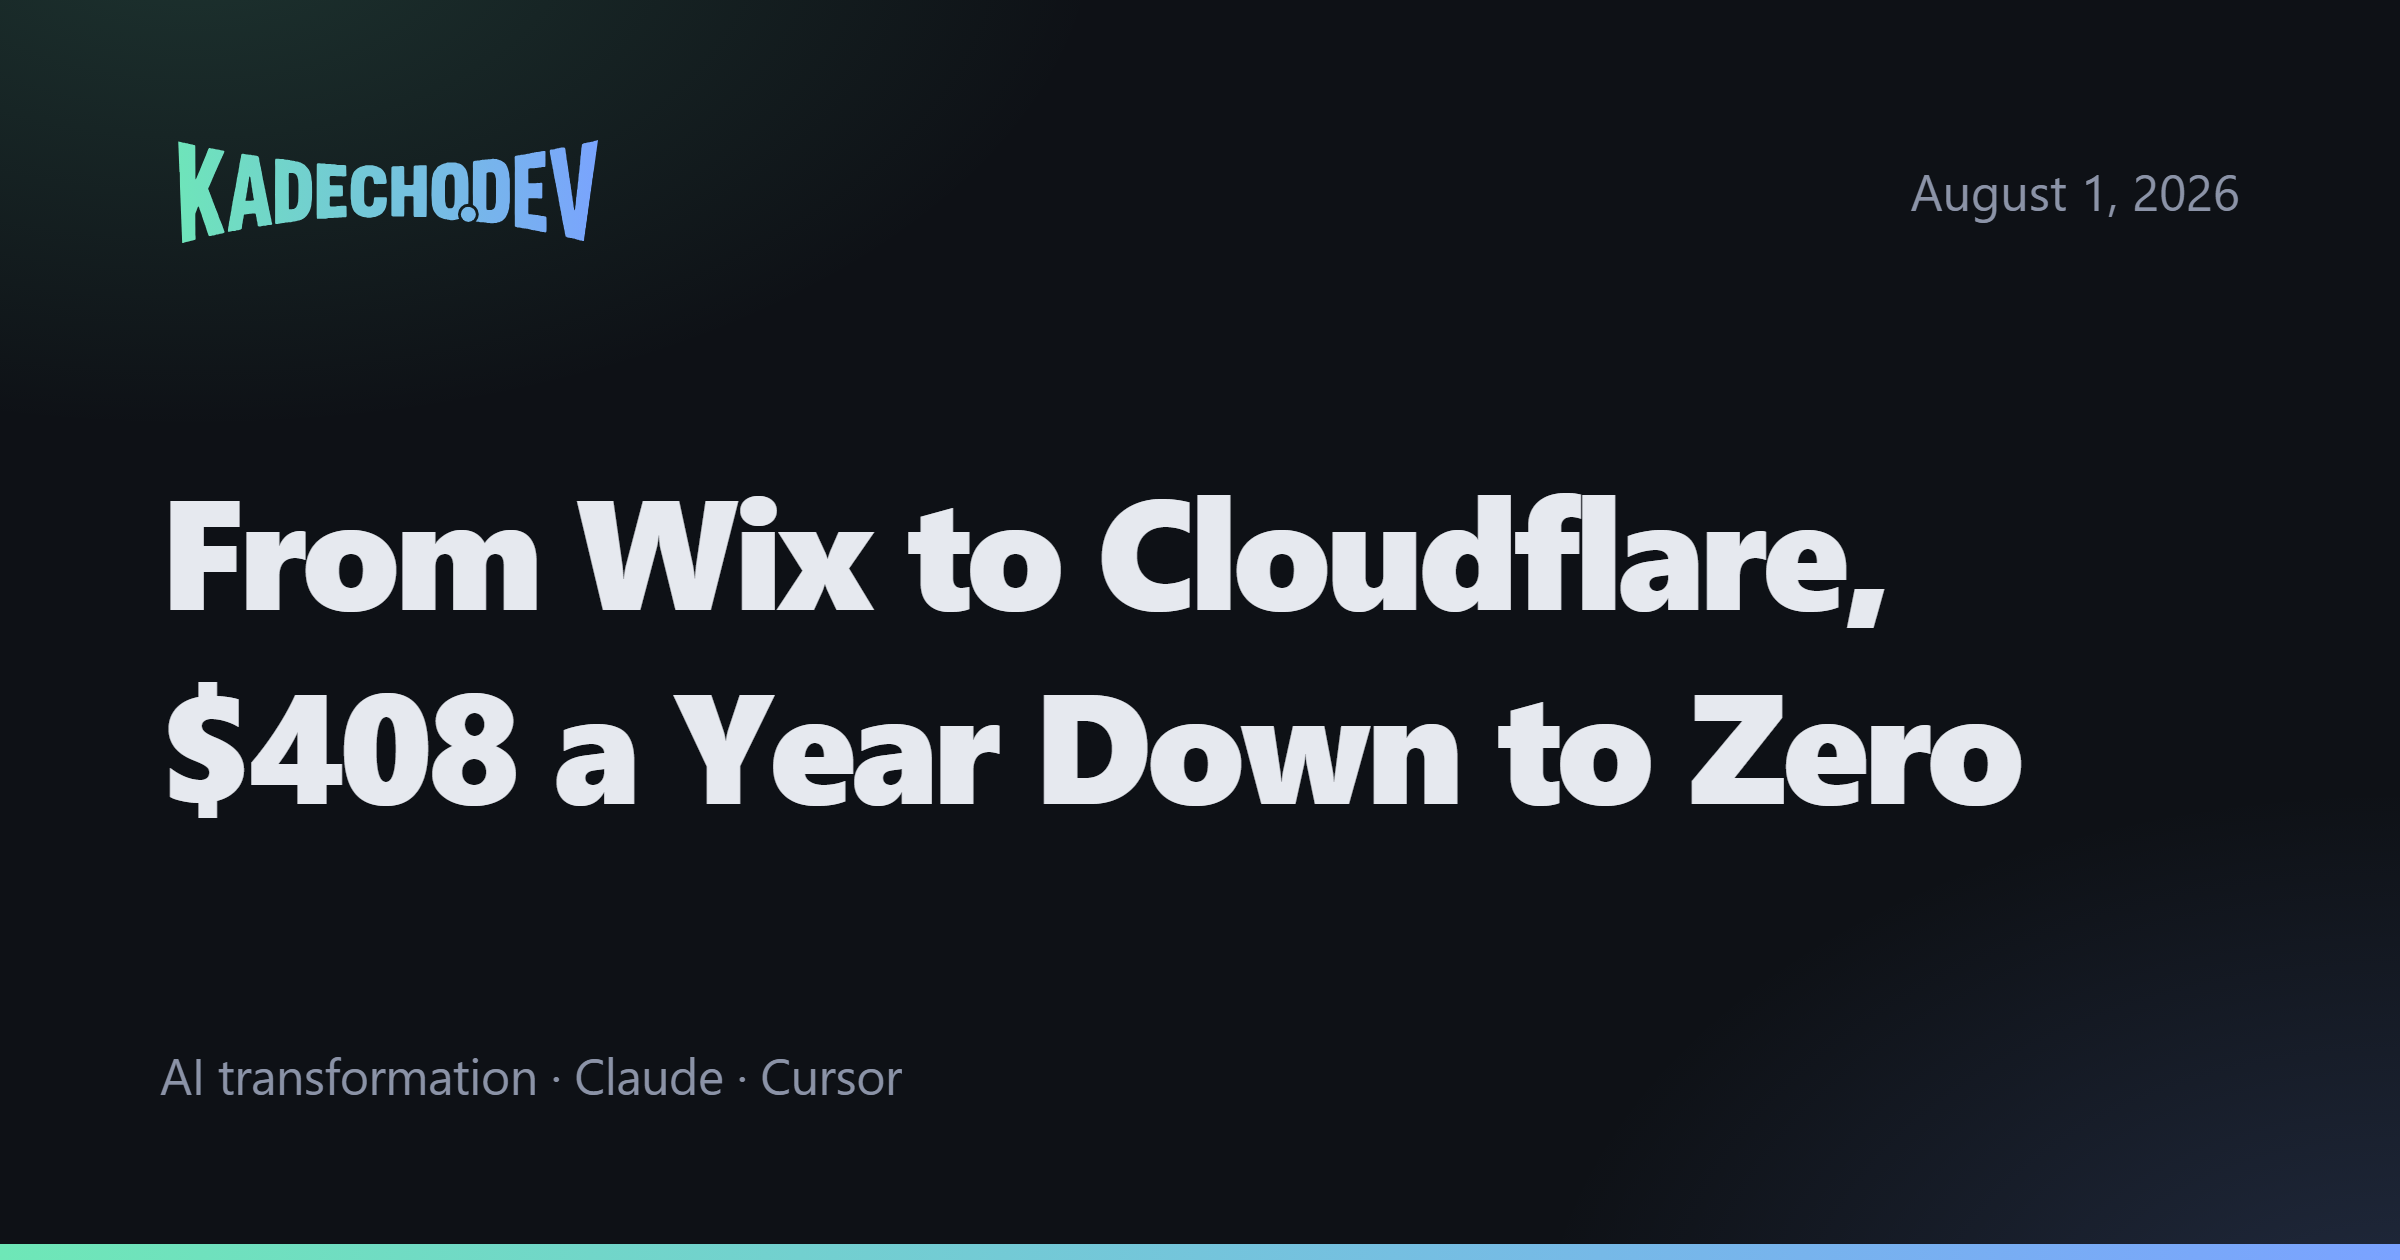
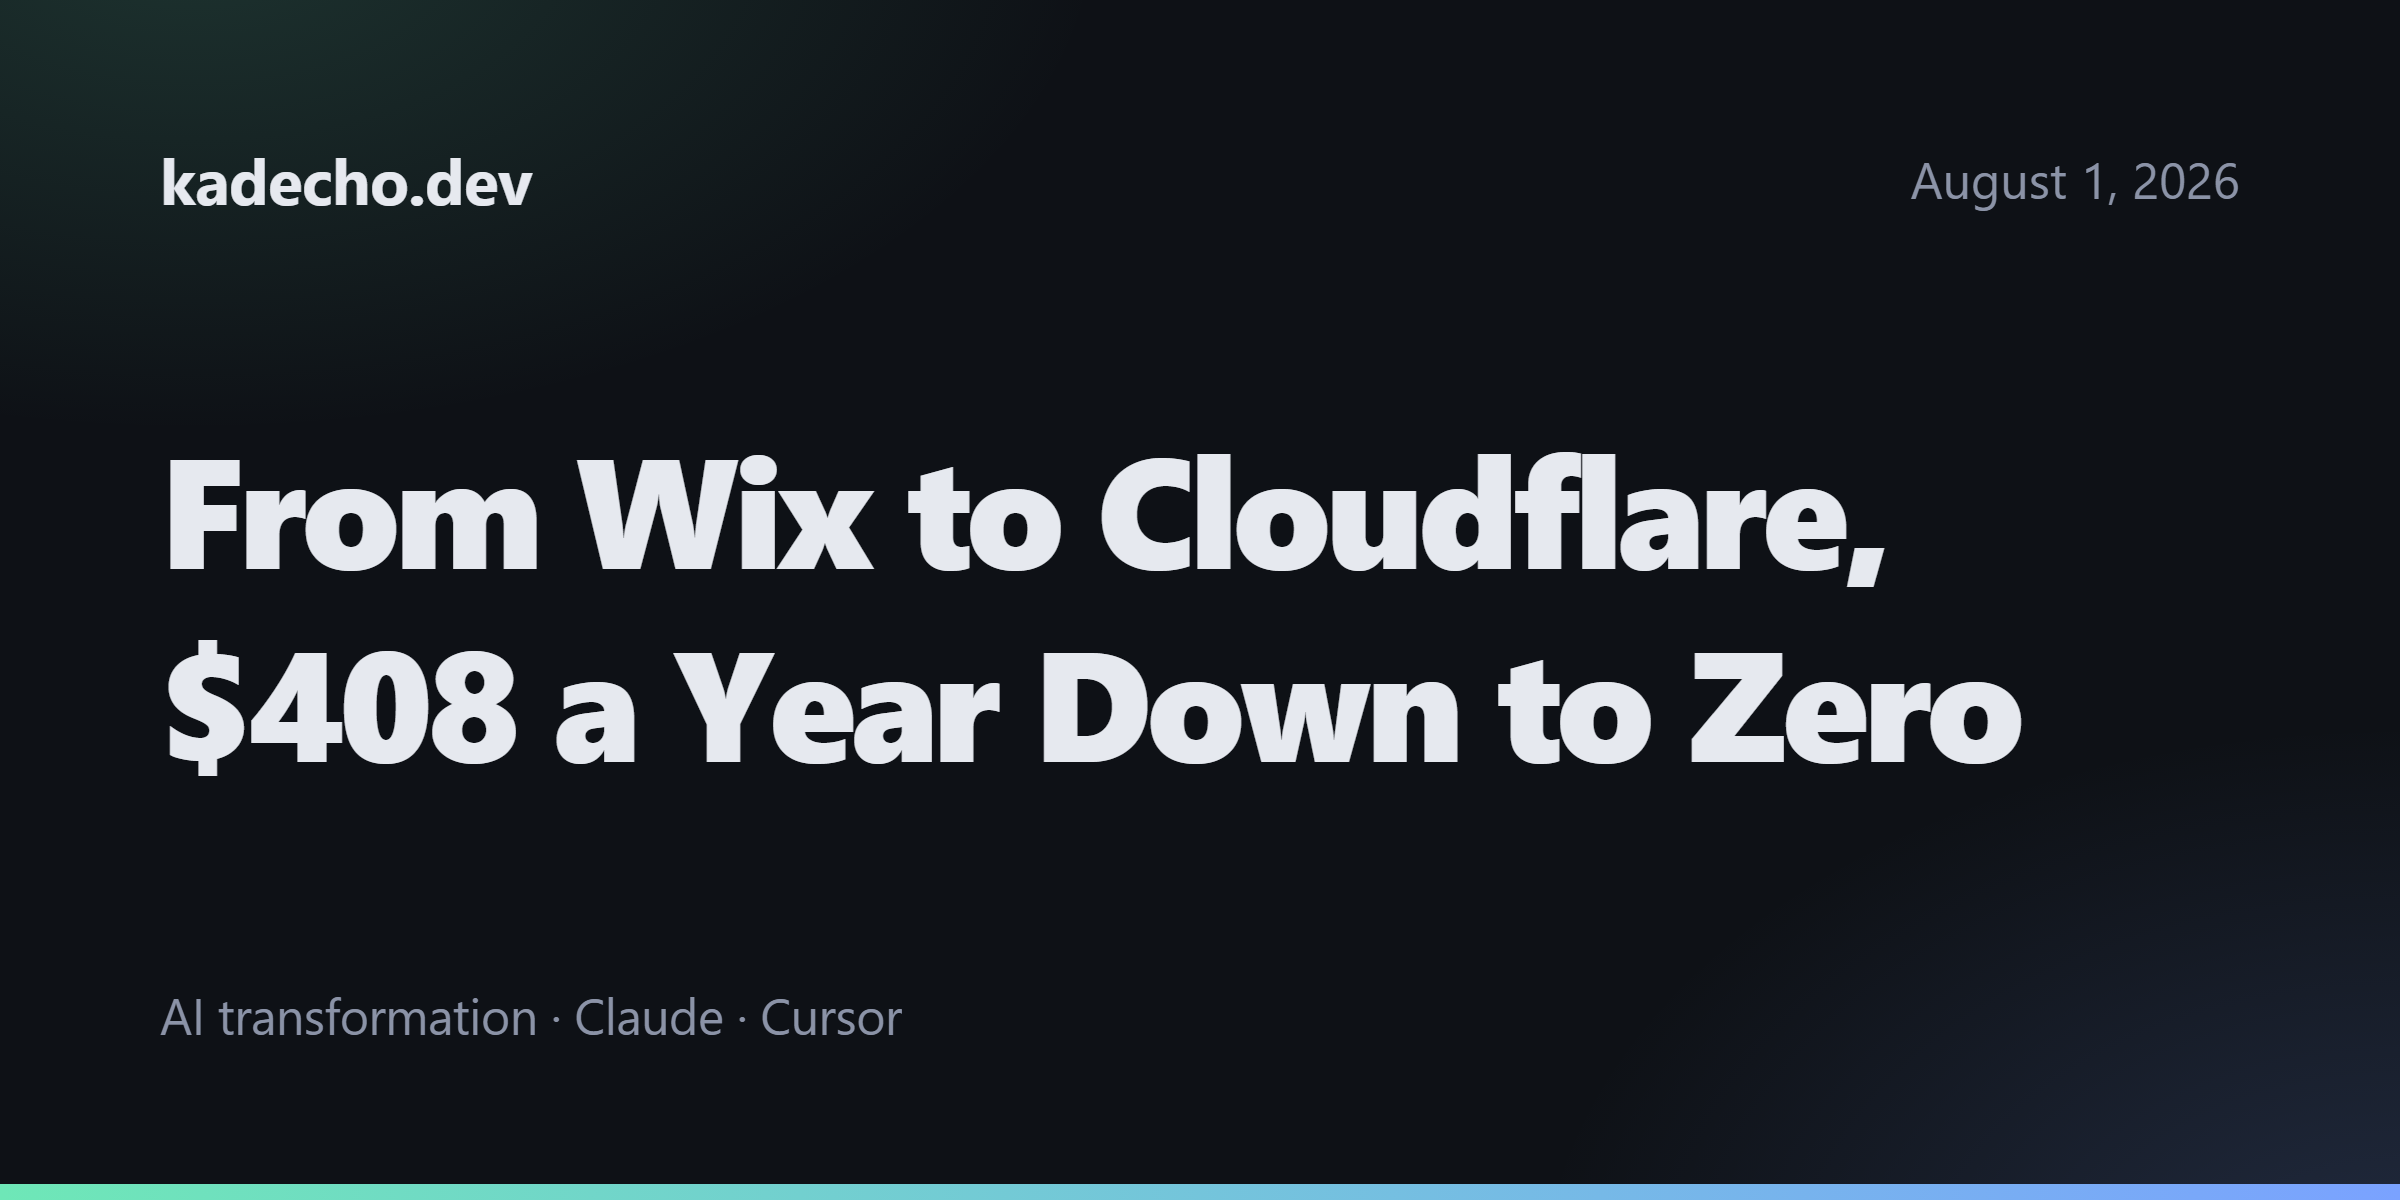
공유 카드를 2:1 로, 로고 대신 글자로
비율
- 1200x630(1.91:1)에서 1200x600(2:1)로 바꿨습니다.
- 1.91:1 은 페이스북이 정한 Open Graph 표준값인데, 우리가 실제로 쓰는 곳은
  쓰레드와 카카오톡이고 둘 다 2:1 을 기준으로 링크 카드를 그립니다. X 도 같습니다.
  페이스북·링크드인에서 생기는 2.4% 차이는 눈에 띄지 않습니다.
- 쓰레드 큐 40편 중 블로그 링크가 붙은 건 4편뿐이라, 그 4번이 잘 보여야 합니다.

로고
- 카드 위쪽의 워드마크를 빼고 kadecho.dev 글자로 바꿨습니다.

카카오톡 용량 검사 추가
- 500KB 를 넘으면 카카오톡이 미리보기를 아예 안 띄웁니다.
  한국 독자가 단톡방에 링크를 던지는 경로라 빠지면 손해가 큽니다.
- 만들 때마다 확인하고, 한도의 80% 를 넘으면 로그에 표시합니다.
  지금 가장 큰 카드가 346KB 입니다.

카드 9장을 다시 만들고, PNG 픽셀을 열어 글자가 실제로 그려졌는지 확인했습니다.

diff --git a/scripts/make-og.js b/scripts/make-og.js
@@ -30,9 +30,17 @@ const ASSETS = path.join(ROOT, "assets");
 const CACHE = path.join(__dirname, ".og-cache.json");
 const site = JSON.parse(fs.readFileSync(path.join(CONTENT, "site.json"), "utf8"));
 
+/* 2:1 로 만듭니다.
+   1200x630(1.91:1)은 페이스북이 정한 Open Graph 표준값인데, 우리가 실제로 쓰는 곳은
+   쓰레드와 카카오톡이고 둘 다 2:1 을 기준으로 링크 카드를 그립니다. X 도 2:1 입니다.
+   페이스북·링크드인에서 생기는 2.4% 차이는 눈에 띄지 않습니다.
+
+   위아래 20px 은 비워 둡니다. 플랫폼마다 자르는 폭이 조금씩 달라서,
+   그 바깥에 글자를 두면 어디선가는 잘립니다. 지금 여백(위 68, 아래 76)이면 넉넉합니다. */
 const WIDTH = 1200;
-const HEIGHT = 630;
+const HEIGHT = 600;
 const SCALE = 2; // 고해상도 화면에서도 글자가 또렷하도록 2배로 캡처
+const KAKAO_LIMIT_KB = 500; // 카카오톡이 받아주는 og:image 용량 한도
 const FORCE = process.argv.includes("--force");
 
 const esc = (s) =>
@@ -109,8 +117,7 @@ const STYLE = `
   }
   .top { position: relative; display: flex; align-items: center; justify-content: space-between; }
   .row { display: flex; align-items: center; gap: 16px; }
-  /* 워드마크. 폭이 높이의 네 배라 높이만 정하고 폭은 따라오게 둡니다. */
-  .row svg { height: 54px; width: auto; display: block; }
+  .brand { font-size: 32px; font-weight: 700; letter-spacing: -.01em; }
   .date { font-size: 25px; color: #8b93a7; font-variant-numeric: tabular-nums; }
   .middle { position: relative; flex: 1; display: flex; align-items: center; min-height: 0; padding: 26px 0; }
   h1 { font-size: 78px; line-height: 1.24; font-weight: 800; letter-spacing: -.035em; word-break: keep-all; }
@@ -138,7 +145,7 @@ function cardHtml({ lang, heading, date, sub, fit }) {
 <div class="card">
   <div class="glow"></div>
   <div class="top">
-    <div class="row">${WORDMARK}</div>
+    <div class="row"><span class="brand">${esc(site.brand)}</span></div>
     ${date ? `<span class="date">${esc(date)}</span>` : ""}
   </div>
   <div class="middle"><h1${fit ? ` id="fit"` : ""}>${heading}</h1></div>
@@ -252,9 +259,16 @@ jobs.forEach((job) => {
   if (size.w !== WIDTH * SCALE || size.h !== HEIGHT * SCALE) {
     console.warn(`  경고: ${job.label} 크기가 ${size.w}x${size.h} 입니다(기대 ${WIDTH * SCALE}x${HEIGHT * SCALE}).`);
   }
+  /* 카카오톡은 500KB 를 넘는 og:image 를 아예 안 보여줍니다.
+     한국 독자가 단톡방에 링크를 던지는 경로라 미리보기가 빠지면 손해가 큽니다.
+     제목이 길어지면 용량이 늘어나므로 만들 때마다 확인합니다. */
+  const KB = size.bytes / 1024;
+  if (KB > KAKAO_LIMIT_KB) {
+    console.warn(`  경고: ${job.label} 이 ${KB.toFixed(0)}KB 입니다. 카카오톡은 ${KAKAO_LIMIT_KB}KB 를 넘으면 미리보기를 안 띄웁니다.`);
+  }
   cache[key] = h;
   made++;
-  console.log(`  만듦: ${job.label}  ${(size.bytes / 1024).toFixed(0)}KB`);
+  console.log(`  만듦: ${job.label}  ${KB.toFixed(0)}KB${KB > KAKAO_LIMIT_KB * 0.8 ? " (카카오 한도에 근접)" : ""}`);
 });
 
 /* 글을 지웠거나 슬러그를 바꾸면 예전 카드가 남습니다.
